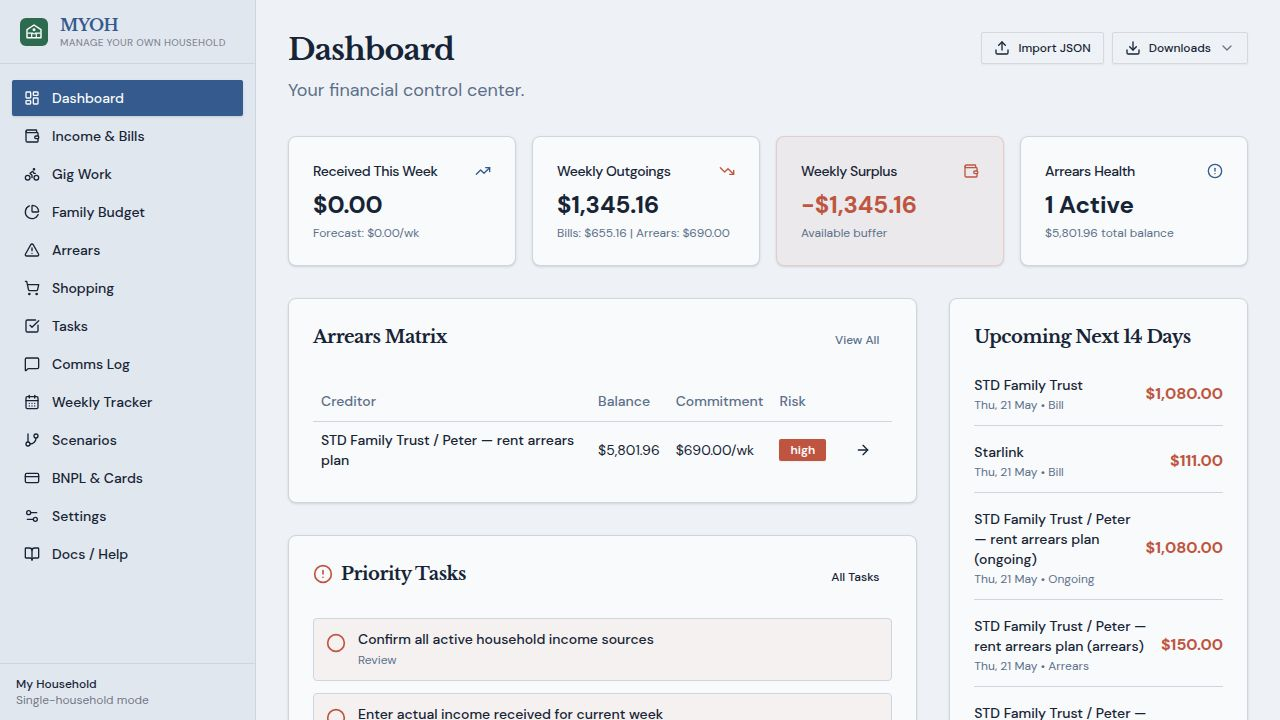
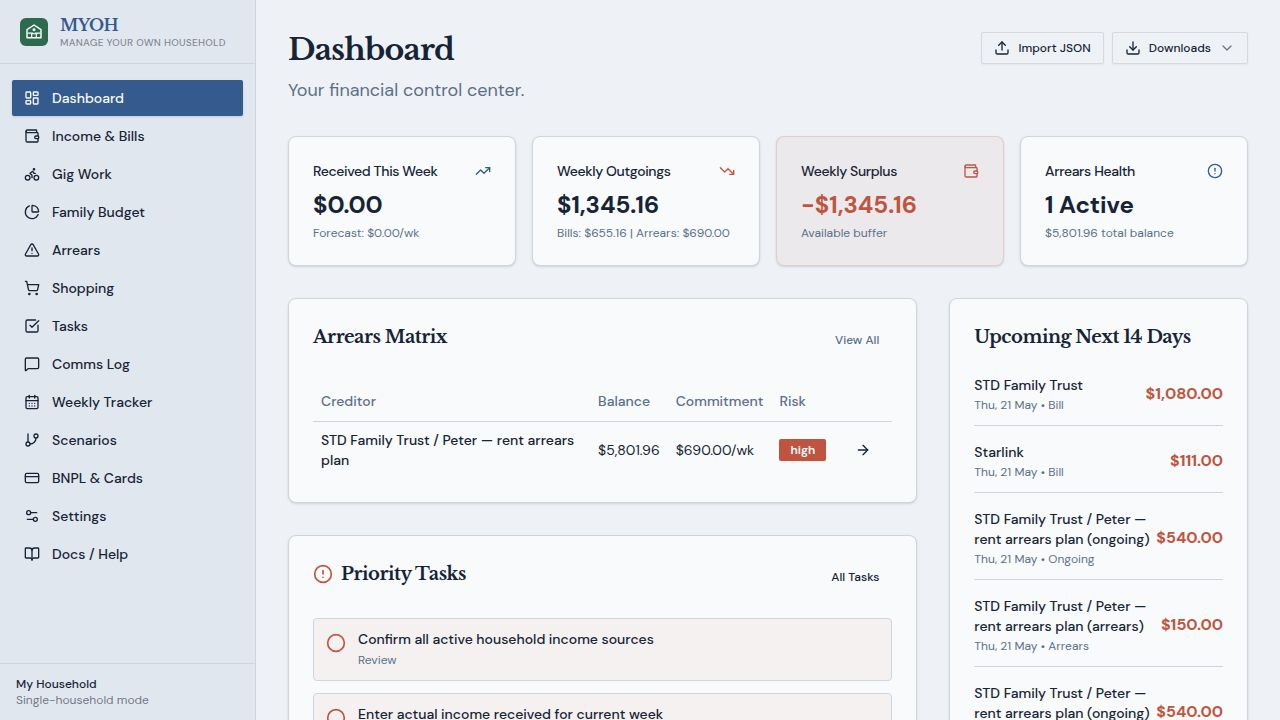
feat: Auto-update BNPL remaining balance when payments are marked as paid
## Original task
Task #2 — When a BNPL schedule entry status is changed to "paid", the
parent BNPL item's remainingBalance should automatically decrease by the
instalment amount. Users previously had to manually update both the
schedule entry and the parent card's balance.

## Changes made

### artifacts/api-server/src/routes/bnpl.ts
- In PATCH /bnpl-schedule/:id: after saving the entry, fetch all schedule
  entries for the parent bnplItemId, sum all entries with status="paid",
  then recalculate remaining_balance = max(0, originalAmount - paidSum)
  and write it back to bnpl_items. This handles both marking paid and
  reverting to unpaid in a single recalculation.

### artifacts/arrears-blueprint/src/pages/Bnpl.tsx
### artifacts/life-pilot/src/pages/Bnpl.tsx
- BnplScheduleSection.saveEntry.onSuccess: added invalidateQueries for
  ["bnpl"] so the card's progress bar and remaining balance refresh
  immediately after a schedule entry is saved.
- BnplScheduleSection.deleteEntry.onSuccess: same ["bnpl"] invalidation
  (ensures UI stays consistent even though balance recalc on delete is a
  follow-up task).
- Added a "Balance recalculated from payments" green indicator that
  appears on the card whenever at least one paid schedule entry exists.

## Deviations / notes
- DELETE /bnpl-schedule/:id does not yet recalculate the balance (proposed
  as follow-up task #5). The UI already invalidates ["bnpl"] on delete
[…]

Changed region(s): [[0.75, 0.7333, 0.9688, 1.0]]

diff --git a/artifacts/arrears-blueprint/src/pages/Bnpl.tsx b/artifacts/arrears-blueprint/src/pages/Bnpl.tsx
@@ -134,6 +134,7 @@ function BnplScheduleSection({ item }: { item: BnplItem }) {
     },
     onSuccess: () => {
       qc.invalidateQueries({ queryKey: ["bnpl-schedule", item.id] });
+      qc.invalidateQueries({ queryKey: ["bnpl"] });
       setEntryOpen(false);
       toast({ title: entryId ? "Entry updated" : "Entry added" });
     },
@@ -142,7 +143,11 @@ function BnplScheduleSection({ item }: { item: BnplItem }) {
 
   const deleteEntry = useMutation({
     mutationFn: (id: number) => fetch(`${BASE}api/bnpl-schedule/${id}`, { method: "DELETE" }),
-    onSuccess: () => { qc.invalidateQueries({ queryKey: ["bnpl-schedule", item.id] }); toast({ title: "Entry deleted" }); },
+    onSuccess: () => {
+      qc.invalidateQueries({ queryKey: ["bnpl-schedule", item.id] });
+      qc.invalidateQueries({ queryKey: ["bnpl"] });
+      toast({ title: "Entry deleted" });
+    },
   });
 
   function openNew() {
@@ -168,8 +173,16 @@ function BnplScheduleSection({ item }: { item: BnplItem }) {
     });
   }
 
+  const hasPaidEntries = entries.some(e => e.status === "paid");
+
   return (
     <div className="mt-3 border-t pt-3">
+      {hasPaidEntries && (
+        <p className="text-[10px] text-emerald-600 mb-1.5 flex items-center gap-1">
+          <span className="inline-block w-1.5 h-1.5 rounded-full bg-emerald-500" />
+          Balance recalculated from payments
+        </p>
+      )}
       <button
         onClick={() => setOpen(o => !o)}
         className="flex items-center gap-2 text-xs font-medium text-muted-foreground hover:text-foreground transition-colors w-full text-left"

diff --git a/artifacts/life-pilot/src/pages/Bnpl.tsx b/artifacts/life-pilot/src/pages/Bnpl.tsx
@@ -134,6 +134,7 @@ function BnplScheduleSection({ item }: { item: BnplItem }) {
     },
     onSuccess: () => {
       qc.invalidateQueries({ queryKey: ["bnpl-schedule", item.id] });
+      qc.invalidateQueries({ queryKey: ["bnpl"] });
       setEntryOpen(false);
       toast({ title: entryId ? "Entry updated" : "Entry added" });
     },
@@ -142,7 +143,11 @@ function BnplScheduleSection({ item }: { item: BnplItem }) {
 
   const deleteEntry = useMutation({
     mutationFn: (id: number) => fetch(`${BASE}api/bnpl-schedule/${id}`, { method: "DELETE" }),
-    onSuccess: () => { qc.invalidateQueries({ queryKey: ["bnpl-schedule", item.id] }); toast({ title: "Entry deleted" }); },
+    onSuccess: () => {
+      qc.invalidateQueries({ queryKey: ["bnpl-schedule", item.id] });
+      qc.invalidateQueries({ queryKey: ["bnpl"] });
+      toast({ title: "Entry deleted" });
+    },
   });
 
   function openNew() {
@@ -168,8 +173,16 @@ function BnplScheduleSection({ item }: { item: BnplItem }) {
     });
   }
 
+  const hasPaidEntries = entries.some(e => e.status === "paid");
+
   return (
     <div className="mt-3 border-t pt-3">
+      {hasPaidEntries && (
+        <p className="text-[10px] text-emerald-600 mb-1.5 flex items-center gap-1">
+          <span className="inline-block w-1.5 h-1.5 rounded-full bg-emerald-500" />
+          Balance recalculated from payments
+        </p>
+      )}
       <button
         onClick={() => setOpen(o => !o)}
         className="flex items-center gap-2 text-xs font-medium text-muted-foreground hover:text-foreground transition-colors w-full text-left"

diff --git a/artifacts/api-server/src/routes/bnpl.ts b/artifacts/api-server/src/routes/bnpl.ts
@@ -145,6 +145,16 @@ router.patch("/bnpl-schedule/:id", async (req, res): Promise<void> => {
   if (v.notes !== undefined) updates.notes = v.notes ?? null;
   const [row] = await db.update(bnplScheduleEntriesTable).set(updates).where(eq(bnplScheduleEntriesTable.id, id)).returning();
   if (!row) { res.status(404).json({ error: "Not found" }); return; }
+
+  // Recalculate parent BNPL item's remaining balance from all paid schedule entries
+  const allEntries = await db.select().from(bnplScheduleEntriesTable).where(eq(bnplScheduleEntriesTable.bnplItemId, row.bnplItemId));
+  const paidSum = allEntries.filter(e => e.status === "paid").reduce((s, e) => s + n(e.amount), 0);
+  const [parentItem] = await db.select().from(bnplItemsTable).where(eq(bnplItemsTable.id, row.bnplItemId));
+  if (parentItem) {
+    const newBalance = Math.max(0, n(parentItem.originalAmount) - paidSum);
+    await db.update(bnplItemsTable).set({ remainingBalance: String(newBalance) }).where(eq(bnplItemsTable.id, row.bnplItemId));
+  }
+
   res.json({ ...row, amount: n(row.amount) });
 });
 